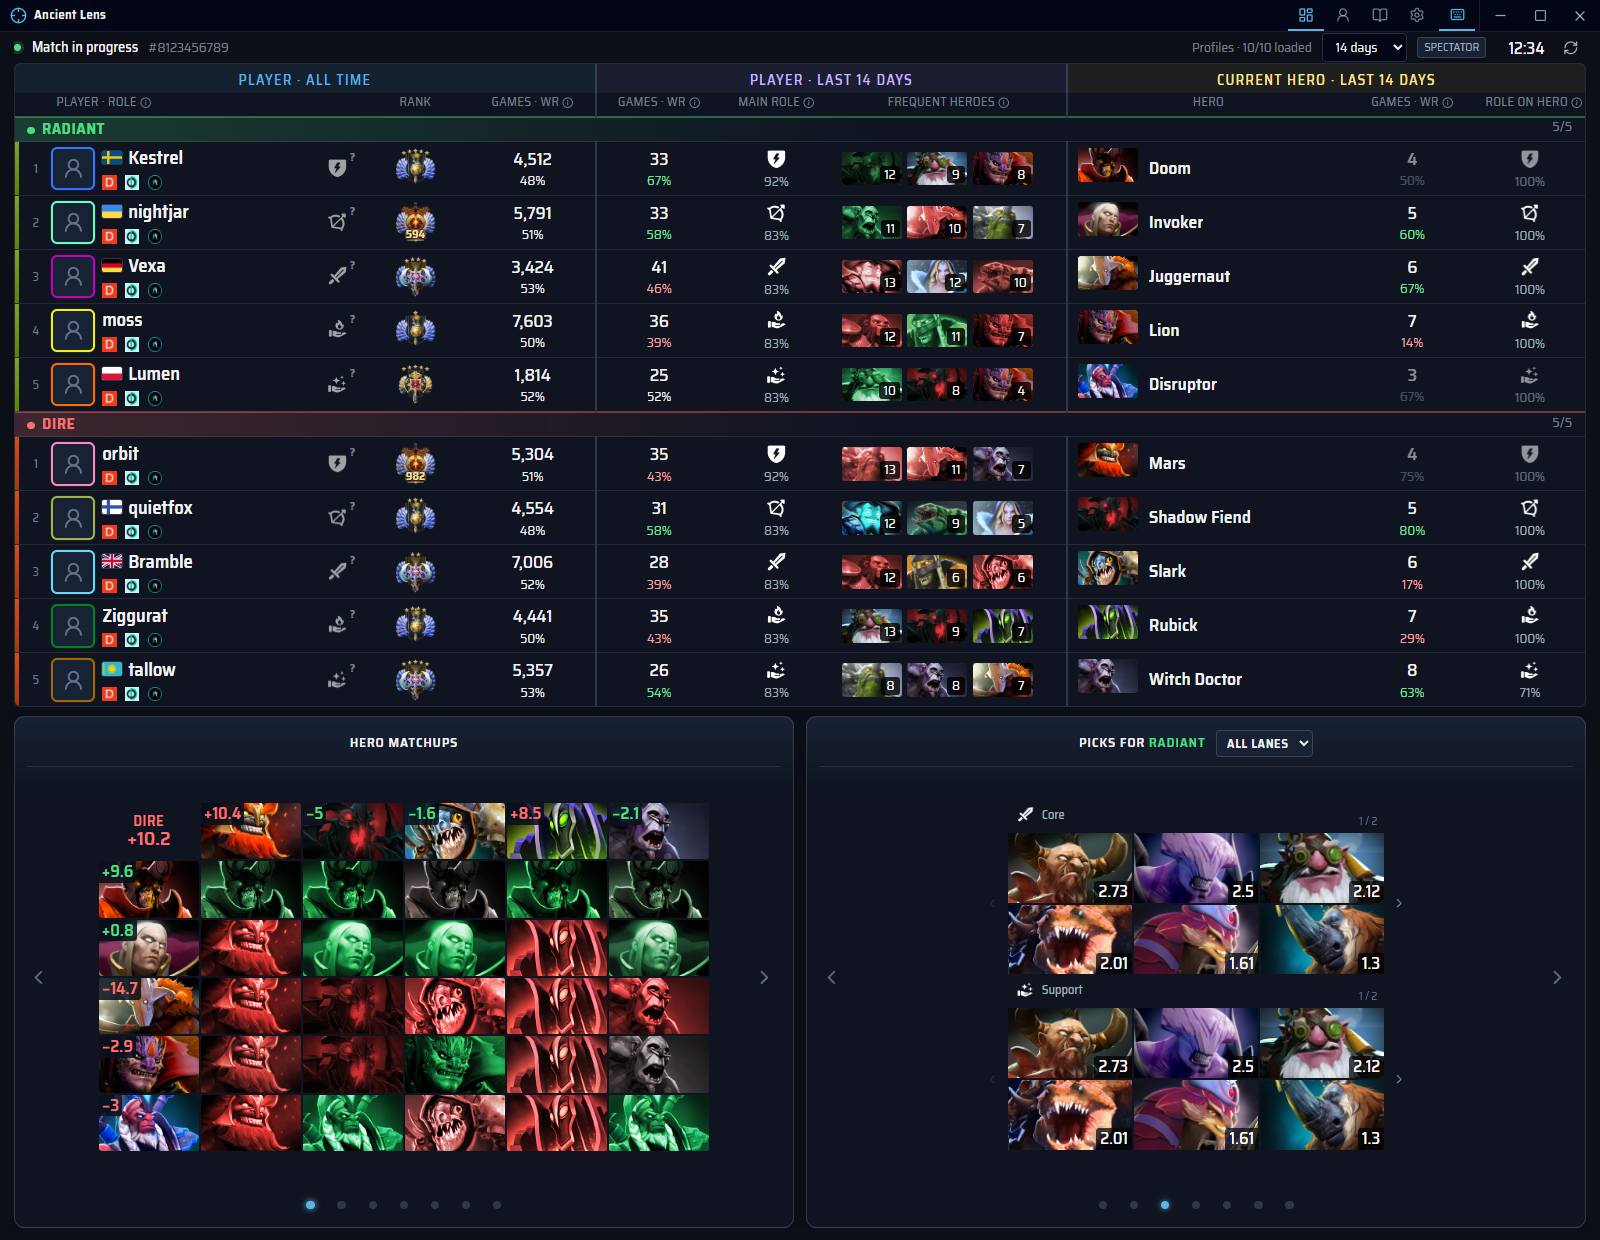
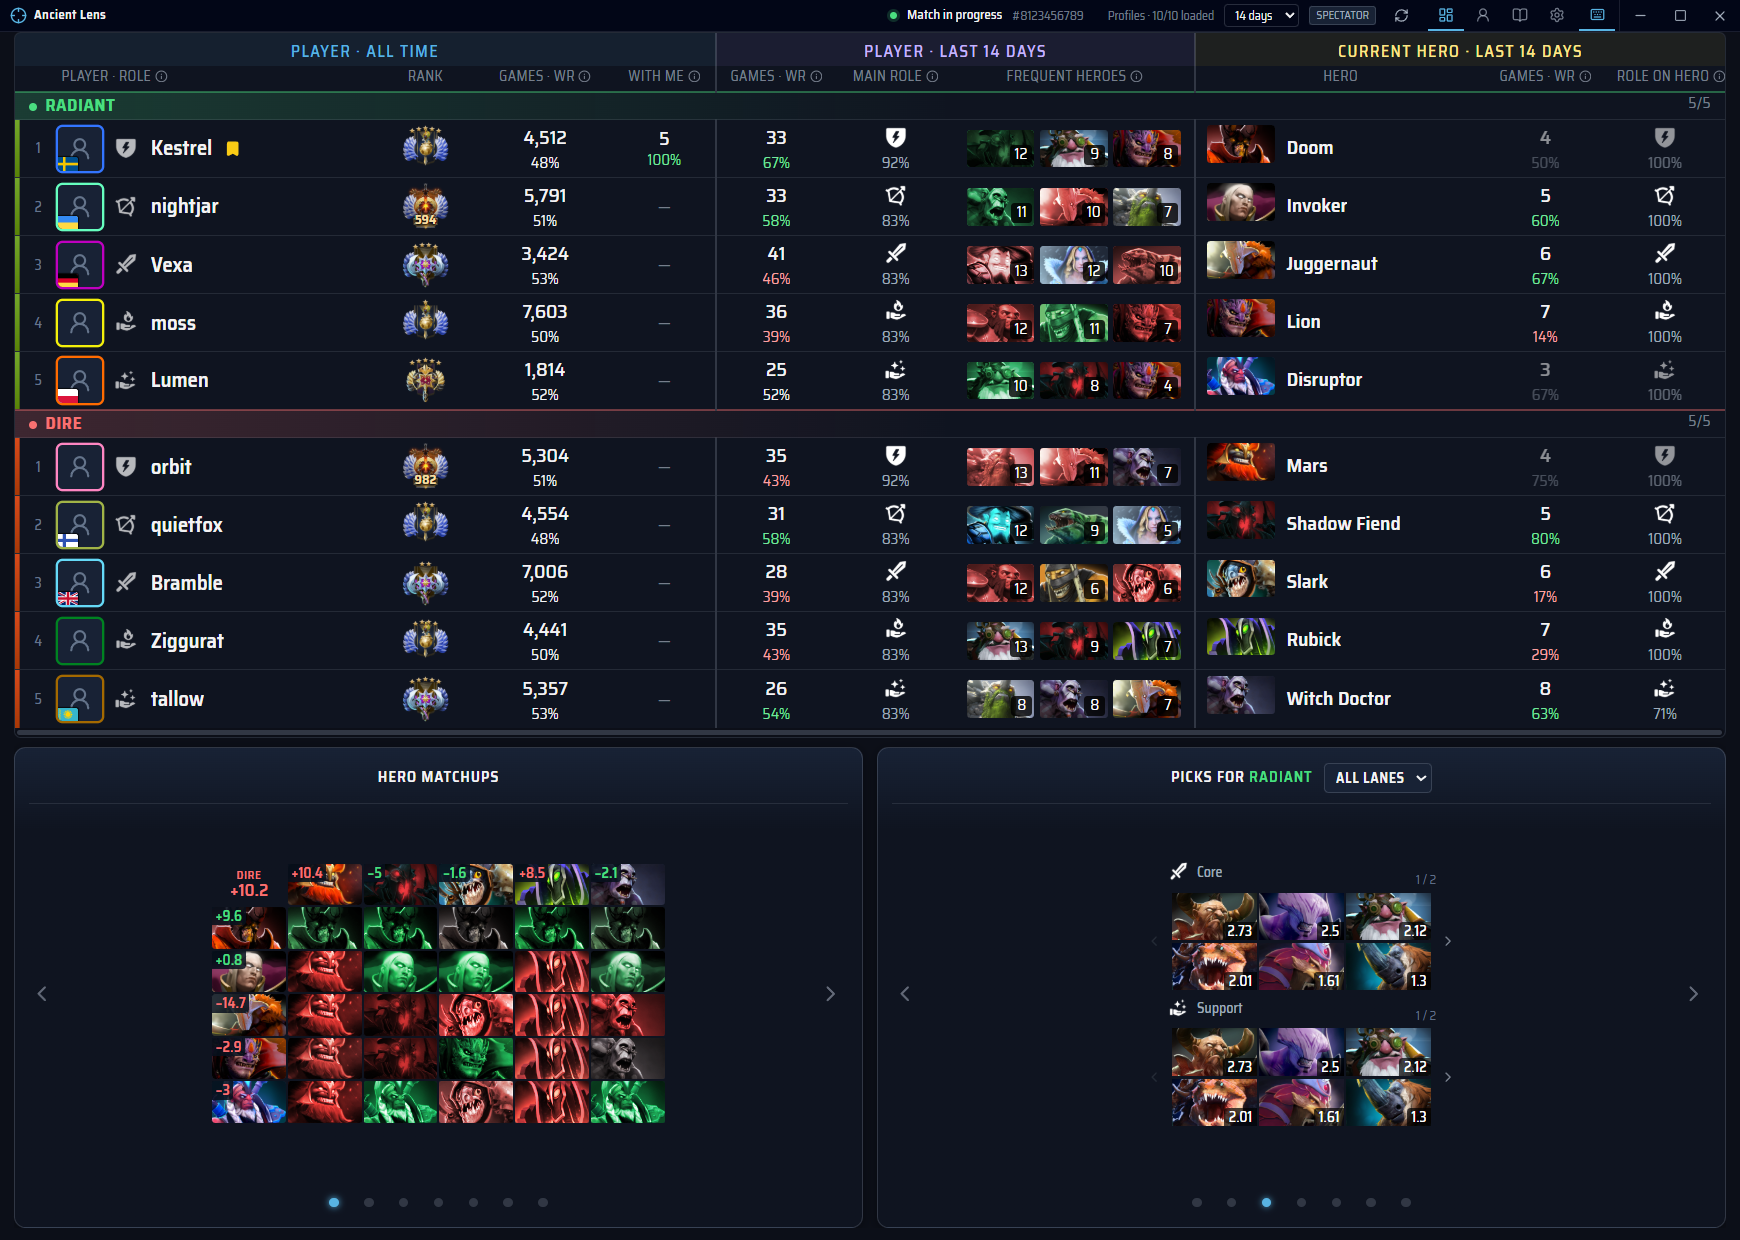
chore(release): prepare 0.7.0 with current docs and screenshots (#47)
Synchronize npm, Cargo and Tauri at 0.7.0, date the changelog, refresh user guides and synthetic native screenshots, and update the shared native scenario for the new player card. Document the pending Linux desktop verification and the draft release process. Closes #46.

Changed region(s): [[0.0, 0.0, 1.0, 0.9806]]

diff --git a/docs/guide/match-and-profile.md b/docs/guide/match-and-profile.md
@@ -15,6 +15,10 @@ The match window's header has four icons: **Match and draft**, **My profile**, *
 The interface scale is in **Settings → Interface → Appearance**; the match screen also fits
 itself to the window, so the scale rarely needs to change during a match.
 
+The match window's title bar shows the phase, match ID, profile-loading progress, statistics
+period and refresh control. The match clock is no longer shown above the table. If one
+profile fails to load, its row says **Could not load**; hover the player for the reason.
+
 Tools without a header icon open where they are needed:
 
 - While no game data arrives, the match screen links **Manual draft** (compare heroes against
@@ -37,10 +41,19 @@ Two teams of five, one row per player:
 - main positions and their shares;
 - frequent heroes with spam markers, and statistics for the current hero.
 
-Your own row is marked, **With me** counts your earlier matches with the player and your win
-rate in them (hover for the list), and avatars get the in-game slot colour when the slot order
-is known; the country flag sits in the avatar's corner and the site links in the hover card. Missing IDs, private profiles, loading, and stale data
-are shown separately. The match screen fits the window down to 90% scale, then scrolls.
+Your own row is marked. Each player has one role icon before the name: a lane selected in the
+draft, or a dimmer guess. The player's hover card explains which. Avatars get the in-game slot
+colour when the slot order is known, with the country flag in the corner.
+
+**With me** counts earlier matches with or against that player in your loaded history, with
+your win rate over matches whose result is known. Hover or focus the count for both heroes,
+K/D/A and the result from your point of view; click a match to open it on Dotabuff. The current
+match is excluded. An empty cell means no meeting was found in the loaded history, not proof
+you have never met: older or OpenDota history may have no participant lists.
+
+Missing IDs, private profiles, loading and stale data are shown separately. The match screen
+fits the window down to 90% scale, then scrolls. On taller windows the analysis panels grow
+more slowly, leaving more room for the ten player rows.
 
 ## Analysis panels
 
@@ -75,9 +88,24 @@ that match (STRATZ history):
 
 ## Player notes and cards
 
-Searchable notes are linked to Dota IDs; **Notes** in the header lists and edits them. A player card shows the full history, teammates and
-opponents, with Dotabuff, OpenDota, and STRATZ links. The SMURF label is a public-statistics
-heuristic, not proof.
+Hover anywhere in the player cell (avatar, role or name) to open a card beside the row. It
+shows the player's rank and all-time matches, country and Steam name, the selected period,
+streak and main role, your note, and links to Dotabuff, OpenDota, STRATZ and Steam. The card
+lists the newest eight matches in the loaded period and up to ten earlier matches with or
+against you, with both heroes, K/D/A and your result. Earlier meetings come from your own
+history, so they can appear even for a private profile. Missing values stay unknown.
+
+Move the pointer onto the card to use it. Click a match there to open it on STRATZ, or the
+card outside the note and links to open the full player card with history, teammates and
+opponents. The SMURF label is a public-statistics heuristic, not proof.
+
+![Player hover card with a note, site links, recent matches and earlier meetings](../images/player-card.png)
+
+Searchable notes are saved locally by Dota ID; **Notes** in the header lists and edits them.
+Click anywhere in the note block to add, edit or delete a note. The marker and card show its
+date. Notes now have one kind: older Observation, Good teammate and Watch out notes keep
+their text and display the same way. The optional chime and its volume are in
+[Settings → Interface → Sound](setup.md#note-sound).
 
 ## Personal profile
 

diff --git a/docs/dev/releases.md b/docs/dev/releases.md
@@ -1,0 +1,65 @@
+# Release preparation
+
+Releases are unsigned prereleases for Windows and Linux. Prepare a release in a branch and
+pull request linked to an issue, after the changes it includes have been reviewed. Do not tag
+a branch that still depends on an unmerged feature pull request.
+
+## Version and documentation
+
+Use the same version in all six places:
+
+- `package.json` and the root package entries in `package-lock.json`;
+- `src-tauri/Cargo.toml` and the `ancient-lens` entry in `src-tauri/Cargo.lock`;
+- `src-tauri/tauri.conf.json`;
+- the prototype version in `README.md`.
+
+Keep an empty `Unreleased` section in `CHANGELOG.md` and move the included changes under a
+dated version heading. Update the affected user guides and installation filename example.
+The workflow takes the release's changes from that changelog section and adds the common
+installation notes from `.github/release-notes.md`.
+
+Close competing Ancient Lens windows, then regenerate the documentation images from the
+built app with isolated invented data:
+
+```sh
+npm ci
+npm run build
+npm run docs:screenshots
+```
+
+Inspect every changed image for clipping, missing portraits, stale controls and readable
+text. Commit the images with the documentation. CI does not regenerate or commit them.
+`npm run demo` is available for a broader interactive review on awkward fictional data.
+Never use personal notes, account captures, Steam settings or a live game as release fixtures.
+
+## Verification
+
+Run the applicable [contribution checks](../../CONTRIBUTING.md#checks), including
+`npm run test:native` against the built app. Record the operating system, results and skipped
+checks in the release pull request. Windows and Linux have equal status: CI runs ordinary
+checks on both, but a Linux native desktop check still needs a reachable Linux desktop. A
+green unit-test job alone does not establish Linux desktop behavior. Follow the platform rule
+when a change has a platform gap, and keep the README platform table and `docs/status.md`
+accurate.
+
+## Draft and publication
+
+After the included feature and release-preparation pull requests have merged, fetch `main`
+and confirm that its version files and changelog match the intended tag. For 0.7.0:
+
+```sh
+git fetch origin
+git tag -a v0.7.0 origin/main -m "Ancient Lens 0.7.0"
+git push origin v0.7.0
+```
+
+The [build workflow](../../.github/workflows/build.yml) checks both platforms, builds their
+packages and checks that the statistics service is bundled. Windows also runs the native
+smoke scenario. Only after these jobs pass does the workflow create a **draft prerelease**
+with the packages and `SHA256SUMS.txt`. A manual workflow run builds temporary artifacts but
+does not create a release.
+
+Review the draft's version, notes, Windows installer and portable ZIP, Linux AppImage, Debian
+and Fedora packages, and checksums. Publish the draft from GitHub Releases when it is ready.
+The app's update notice ignores drafts and only announces a newer published release; it does
+not download or install an update.

diff --git a/README.md b/README.md
@@ -19,7 +19,7 @@
   <a href="docs/README.md"><b>Documentation</b></a>
 </p>
 
-> **Early prototype, 0.6.1.** Unsigned prereleases for Windows and Linux are on the
+> **Early prototype, 0.7.0.** Unsigned prereleases for Windows and Linux are on the
 > [releases page](https://github.com/PavluntiyJ/ancient-lens/releases); you can also
 > [build from source](docs/guide/install.md). Not affiliated with Valve.
 
@@ -31,8 +31,12 @@
   meta picks, updated as heroes are picked and banned (needs your STRATZ token).
 - **Profile and MMR:** your rank with confidence, an MMR chart, position breakdown and a
   filterable match history, kept even when your match data is private.
-- **Player notes:** searchable notes on players you met, with links to Dotabuff, OpenDota
-  and STRATZ.
+- **Player cards and notes:** hover a player for recent matches, earlier games with or
+  against you, an editable note, and links to Dotabuff, OpenDota, STRATZ and Steam.
+
+In 0.7.0, match status moves into the title bar, **With me** shows earlier meetings and your
+win rate, and note chimes have a volume control. The app also links to new releases when
+available. See the [changelog](CHANGELOG.md#070--october-30-2026).
 
 Screenshots use invented players. A tour of every panel and shortcut:
 [the match screen and profile](docs/guide/match-and-profile.md).
@@ -60,6 +64,7 @@ Details and troubleshooting: [setup and data](docs/guide/setup.md), and the
 | What you get                                                                      | Needs                                   | Windows                         | Linux                                    |
 | --------------------------------------------------------------------------------- | --------------------------------------- | ------------------------------- | ---------------------------------------- |
 | Public profiles, notes, manual draft, MMR journal, automatic account detection    | Nothing: works out of the box           | Yes                             | Yes                                      |
+| 0.7 match layout, player hover card and note controls                            | Public statistics and your local history | Native fixtures checked          | Desktop check pending; CI checks only    |
 | Ten-player roster and picks while spectating                                      | Dota GSI setup (Quick start above)      | Yes                             | Yes                                      |
 | Matchups, position recommendations, meta and counter picks                        | Your STRATZ token and the local service | Yes                             | Yes                                      |
 | Ten-player roster, picks and bans in **your own** match; exact MMR and confidence | Optional memory reader, off by default  | Yes                             | Yes                                      |

diff --git a/docs/guide/setup.md b/docs/guide/setup.md
@@ -7,8 +7,8 @@ Dota 2 (GSI), STRATZ and, on Windows and Linux, memory reading. Each says whethe
 connected, needs setup, or is off, with a button to its section. Below, the sections are
 grouped: **Connections** (Dota 2, STRATZ, memory reading), **Match & statistics**,
 **Interface** (appearance and interface scale, shortcuts, sound, window) and **Data** (data
-folder and export). On a wide window the groups are a list on the left; on a narrow one they
-are a row of links above the sections.
+folder, export and update checks). On a wide window the groups are a list on the left; on a
+narrow one they are a row of links above the sections.
 
 ## GSI configuration
 
@@ -161,6 +161,16 @@ configuration folder, beside but not inside the data directory below).
 These are ordinary desktop windows that the system draws on top: nothing is drawn by or
 inside the game, and no input is sent to it. Shortcuts for the analysis panels are listed in
 [the match screen guide](match-and-profile.md#analysis-panels).
+
+## Note sound
+
+**Settings → Interface → Sound** controls **Chime for players with a note** and **Chime
+volume** (80% by default). A player you have a note about triggers two soft notes, once per
+player for the current match you play or watch. Private profiles count too, because notes
+are saved locally by Dota ID. All notes use the same sound; the former Watch out chime is gone.
+
+The chime plays at 30% of the selected volume. Release the volume slider or press **Play
+note** to hear it. The checkbox turns encounter chimes off.
 
 ## Storage and privacy
 

diff --git a/docs/README.md b/docs/README.md
@@ -25,11 +25,12 @@ user-visible changes in the [changelog](../CHANGELOG.md).
 | [Native readers](dev/native-reader.md)  | Memory readers: discovery, validation, verified builds, game updates |
 | [Verification](dev/verification.md)     | Checks and the claims they support                                   |
 | [AI development tools](dev/ai-tools.md) | Project MCP setup for Claude Code, Codex and OpenCode                |
+| [Release preparation](dev/releases.md) | Version files, documentation, platform checks and draft publication |
 | [Status and roadmap](status.md)         | Known limitations and planned work                                   |
 
 ## Screenshots
 
-Screenshots in `images/` (match screen, analysis panels, profile, ten-player card,
+Screenshots in `images/` (match screen, player hover card, analysis panels, profile, ten-player card,
 memory-reading consent), used by the README and the guides, use isolated fictional fixtures, not personal account captures.
 Regenerate on Linux with WebKitWebDriver or Windows with WebView2:
 

diff --git a/docs/status.md b/docs/status.md
@@ -15,6 +15,11 @@ or unverified, and what is planned.
 
 ## Known limitations
 
+- **0.7 match interface on Linux:** the roomier table, player hover card and simplified note
+  controls were inspected on Windows with synthetic native fixtures. Linux has passed the
+  ordinary CI checks for the interface changes, but the new layout and interactions still
+  need a Linux desktop run of `npm run test:native` and visual review. This is a verification
+  gap, not an intentionally Windows-only feature.
 - **Memory readers** are validated on specific game builds (see the
   [maintenance guide](dev/native-reader.md#verified-builds)). A game update can make them
   report `unsupported` until discovery is checked again. The anti-cheat response to external

diff --git a/docs/dev/verification.md b/docs/dev/verification.md
@@ -51,7 +51,8 @@ kwin_wayland --virtual --no-lockscreen --width 2560 --height 1600 --socket al-sm
 ## Native coverage
 
 - Ten player rows, shuffled provider responses correctly mapped by ID, two
-  batches of five, lifetime/period statistics, positions, medals and site links.
+  batches of five, lifetime/period statistics, positions, medals and the four profile links
+  in the player hover card (Dotabuff, OpenDota, STRATZ and Steam).
 - Independent carousels and hero pagination, shared recommendation lane,
   automatic initial lane from the local role, no refetch on display-only changes.
 - Anonymous draft, tentative hovers, bans, malformed responses, retry, and

diff --git a/CONTRIBUTING.md b/CONTRIBUTING.md
@@ -62,6 +62,8 @@ compiles; a direct `cargo test` needs an earlier `npm run build:web`.
 The optional pre-push hook runs the main checks: `git config core.hooksPath .githooks`.
 Ordinary tests use fixtures, need no API keys and never start Dota. See
 [verification](docs/dev/verification.md) for the native drivers.
+For version files, documentation screenshots and draft publication, follow
+[release preparation](docs/dev/releases.md).
 
 ## AI-assisted contributions
 

diff --git a/CHANGELOG.md b/CHANGELOG.md
@@ -4,6 +4,11 @@ User-visible changes. Dates are when the change landed; 0.5.0 is the first binar
 
 ## Unreleased
 
+## 0.7.0 — October 30, 2026
+
+This release refreshes the match table and player hover cards, simplifies notes, and adds
+release notifications. Existing settings, notes and rating history are kept.
+
 ### New versions
 
 - A notice above the match screen says when a newer Ancient Lens release is out, with

diff --git a/docs/guide/install.md b/docs/guide/install.md
@@ -56,7 +56,7 @@ On Windows, in PowerShell, print the hash and compare it with the line for that
 file in `SHA256SUMS.txt`:
 
 ```powershell
-Get-FileHash .\Ancient-Lens-0.6.1-x64-setup.exe -Algorithm SHA256
+Get-FileHash .\Ancient-Lens-0.7.0-x64-setup.exe -Algorithm SHA256
 ```
 
 `Get-FileHash` prints capital letters; upper and lower case do not matter. Do
